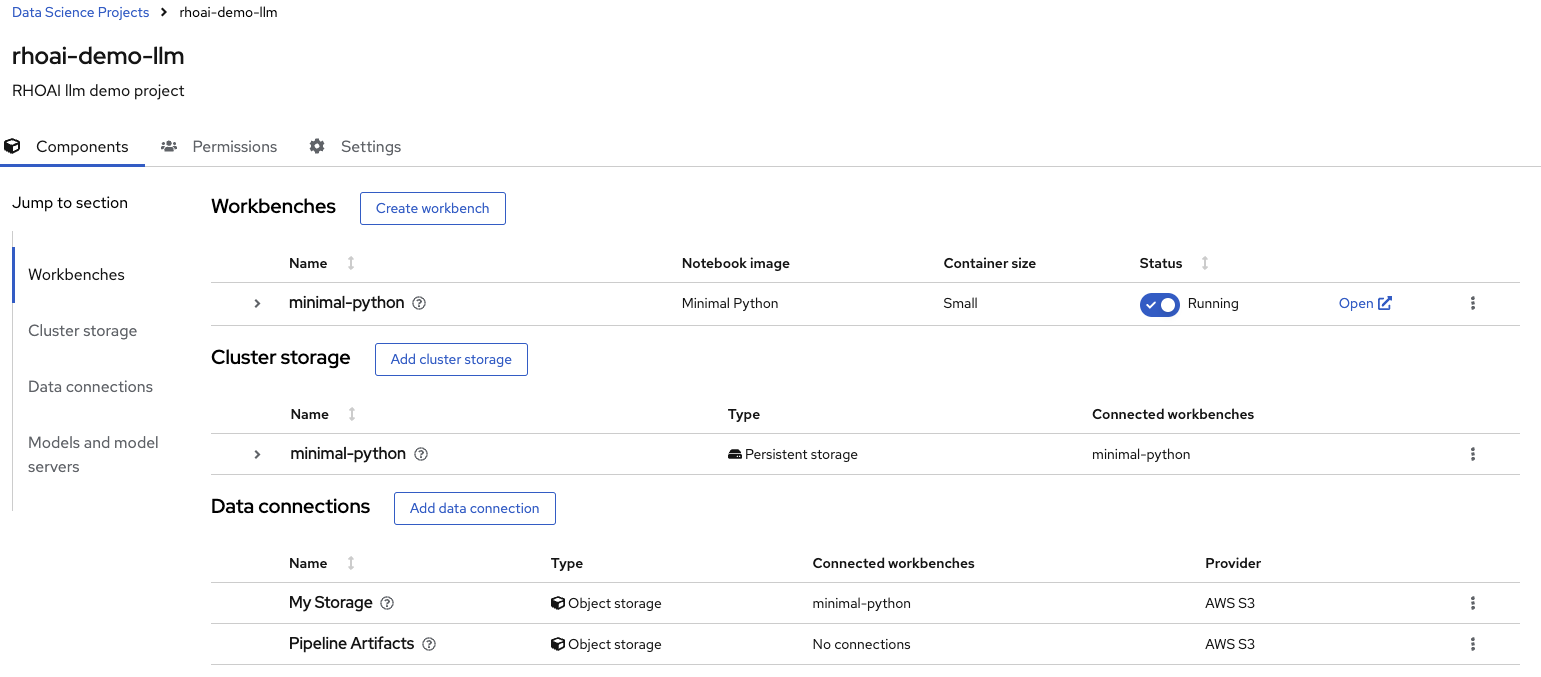
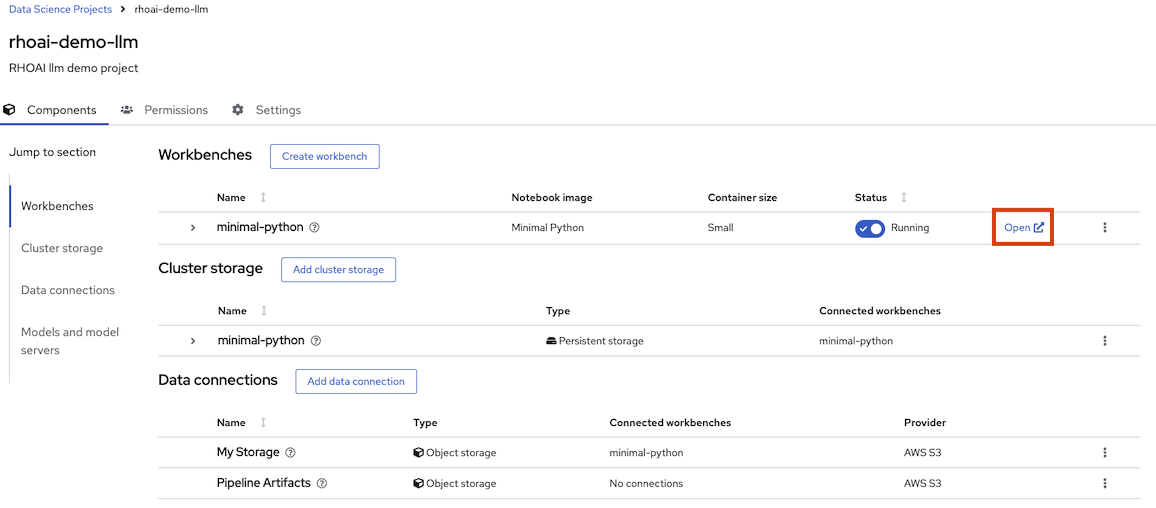
updated image and readme

diff --git a/openshift-ai-deploy-llm/README.md b/openshift-ai-deploy-llm/README.md
@@ -21,3 +21,6 @@ oc process -f manifests/3-notebook-template.yaml -n rhoai-demo-llm \
 -p NOTEBOOK_IMAGE=$(oc get is s2i-minimal-notebook -n redhat-ods-applications -o jsonpath='{.status.dockerImageRepository}{":"}{.spec.tags[-1].name}') \
 | oc create -f -
 ```
+3. Access the workbench from the data science project:
+
+Click the "Open" link for the workbench to access the Jupyter notebook.
